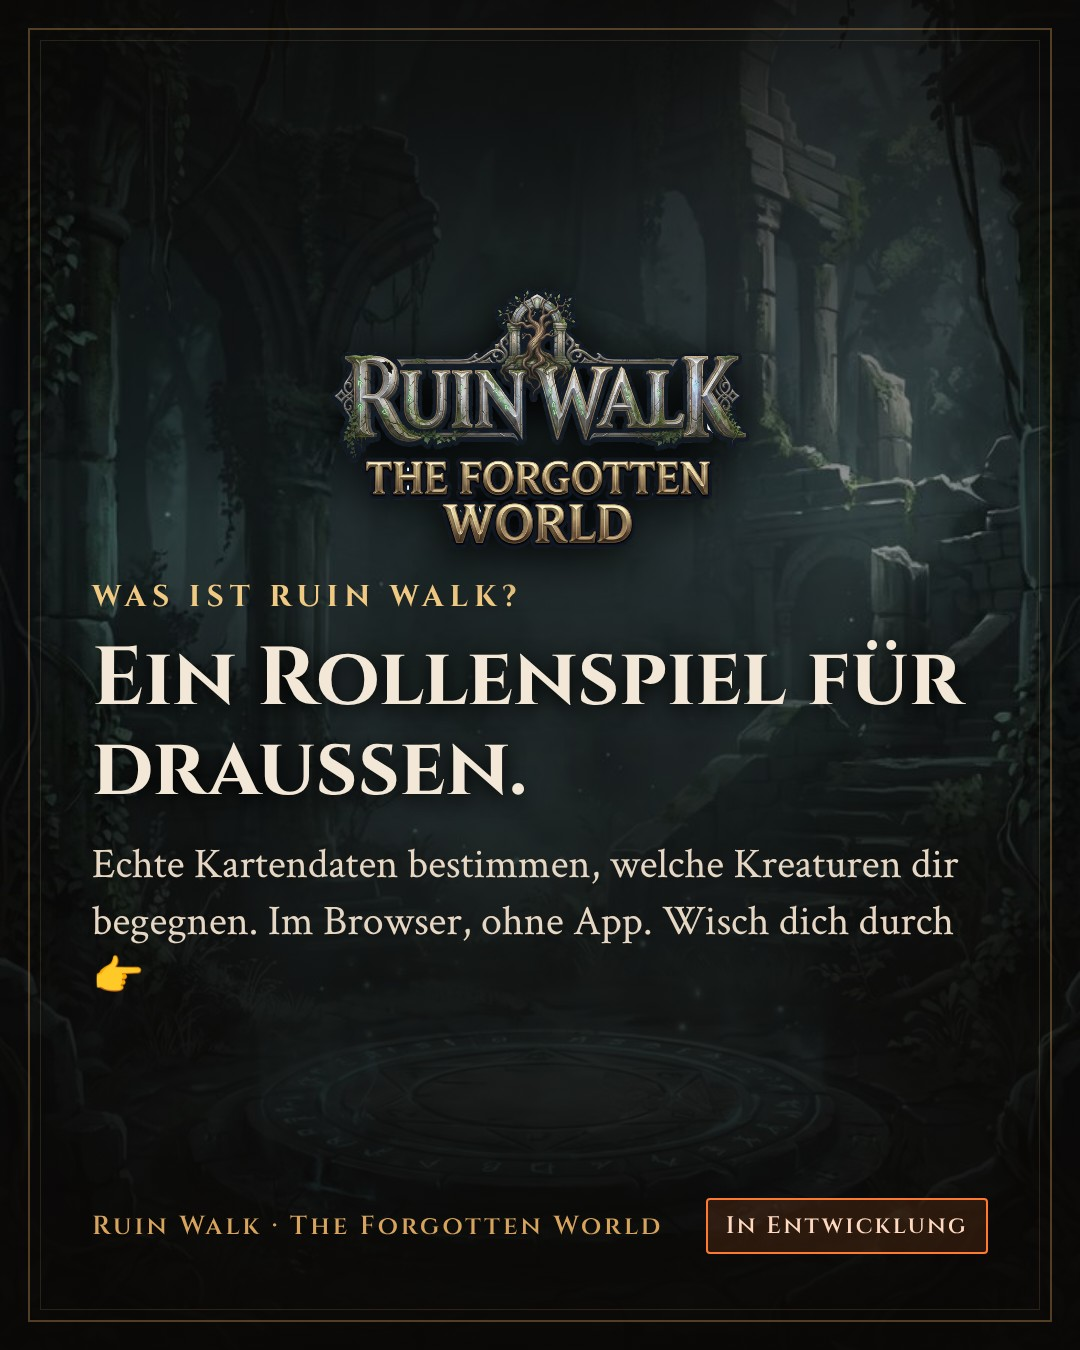
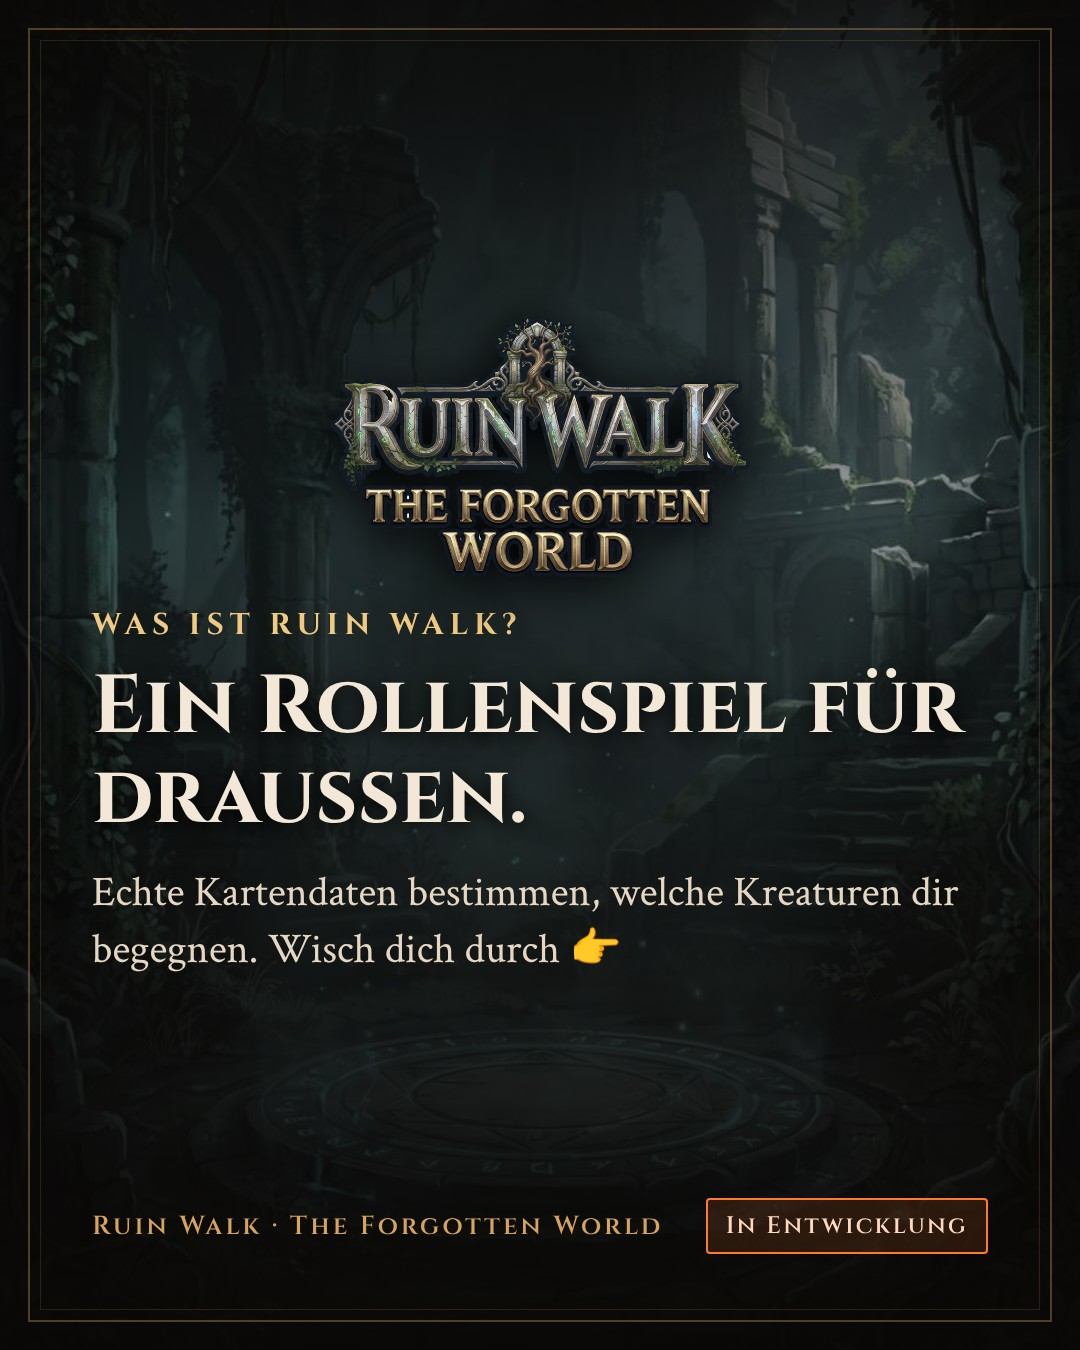
Marketing: Spiel noch nicht öffentlich – keine Links/Spielaufforderungen
- Entwürfe 001/002 und Karussell-Seite 5 angepasst (Folgen statt Testen)
- Bio ohne Link, Prüfregel spiel_oeffentlich=false in meta-api.js
- Regeln in CLAUDE.md, rw-marketing, Redaktionskalender

Claude-Session: https://claude.ai/code/session_01HKbb9SMpeMjAzQiAsTSMjU

Changed region(s): [[0.0611, 0.2178, 0.8861, 0.7467]]

diff --git a/.claude/skills/ruinwalk-meta-publishing/scripts/meta-api.js b/.claude/skills/ruinwalk-meta-publishing/scripts/meta-api.js
@@ -72,6 +72,9 @@ function pruefen(e) {
   if (!e.fakten || !/→/.test(e.fakten)) f.push('Faktenprüfung fehlt (Aussage → Beleg → Status)');
   if (/→[^→\n]*→\s*in entwicklung\b/i.test(e.fakten) && !/in entwicklung/i.test(e.caption_ig + e.text_fb)) f.push('Faktenprüfung nennt etwas „in Entwicklung“, der Text sagt das nicht');
   for (const r of VERBOTEN) if (r.test(e.caption_ig + '\n' + e.text_fb)) f.push('unzulässige Formulierung/Link: ' + r);
+  // Spiel noch nicht öffentlich (config.json spiel_oeffentlich=false): kein Link, keine Aufforderung zum Spielen/Testen
+  if (cfg.spiel_oeffentlich === false && /(link in (der )?bio|jetzt (testen|spielen|ausprobieren)|(probier|teste|spiel)\w* (es )?(jetzt|sofort|gleich)|zum (spiel|testen)\b|ausprobieren willst|so startest du|testmodus)/i.test(e.caption_ig + '\n' + e.text_fb))
+    f.push('Spiel ist noch nicht öffentlich: keine Links und keine Aufforderung zum Spielen/Testen');
   const bilder = bilderVon(e);
   if (!bilder.length) f.push('Bilddatei fehlt');
   for (const b of bilder) if (!fs.existsSync(path.join(ROOT, b))) f.push('Bilddatei fehlt: ' + b);

diff --git a/marketing/freigabe/entwuerfe/001_instagram_facebook_teaser.md b/marketing/freigabe/entwuerfe/001_instagram_facebook_teaser.md
@@ -26,9 +26,9 @@ Hinter dem nächsten Feldweg beginnt eine vergessene Welt.
 
 Ruin Walk ist ein Fantasy-Rollenspiel, das deine echte Umgebung zum Spielfeld macht. Du gehst raus, entdeckst Kreaturen, sammelst Rohstoffe und wirst mit jedem Weg stärker.
 
-Läuft direkt im Handy-Browser. Noch in Entwicklung – und du kannst mitreden.
+Es läuft im Handy-Browser, ganz ohne App, und ist noch in Entwicklung. Hier zeige ich, wie es entsteht.
 
-Mehr über das Spiel in den nächsten Beiträgen. Link in der Bio.
+Folge @ruinwalk.official, um von Anfang an dabei zu sein.
 
 #ruinwalk #gpsrpg #standortspiel #pixelartgame #rpg
 
@@ -37,9 +37,7 @@ Hinter dem nächsten Feldweg beginnt eine vergessene Welt.
 
 Ruin Walk ist ein Fantasy-Rollenspiel für draußen: Deine echte Umgebung wird zum Spielfeld. Wälder, Wiesen, Sümpfe, Felsen und Ruinen aus echten Kartendaten bestimmen, welche Kreaturen dir begegnen. Du sammelst Rohstoffe, stellst Werkzeug und Ausrüstung her und entwickelst deinen Charakter vom Wanderer zu einer von vier Klassen weiter.
 
-Das Spiel läuft direkt im Handy-Browser, ohne App. Es ist noch in Entwicklung, und ich freue mich über jedes ehrliche Feedback.
-
-👉 [Link zur Landingpage]
+Das Spiel läuft im Handy-Browser, ohne App. Es ist noch in Entwicklung – hier zeige ich, wie es entsteht.
 
 ## Hashtags
 #ruinwalk #gpsrpg #standortspiel #pixelartgame #rpg
@@ -48,5 +46,5 @@ Das Spiel läuft direkt im Handy-Browser, ohne App. Es ist noch in Entwicklung, 
 Logo „Ruin Walk – The Forgotten World“ vor einer dunklen, gemalten Waldruine. Text: Ein GPS-Fantasy-RPG. Deine Welt ist das Spielfeld.
 
 ## Notizen für Pascal
-- Link zur Landingpage (GitHub-Pages-Adresse) bitte bestätigen.
+- Spiel noch nicht öffentlich (Entscheidung Pascal 18.11.2026): kein Link, keine Aufforderung zum Spielen.
 - Impressum vor dem ersten Beitrag klären.

diff --git a/CLAUDE.md b/CLAUDE.md
@@ -13,7 +13,7 @@ steht in `docs/ki-team/UEBERSICHT.md`.
 - **Backend:** Supabase (Projekt `malbiahllucctiafzydv`), Schema `supabase/schema.sql` (Konten, Charaktere, Plätze, Sicherungen, Audit, RLS). Migrationen liegen als SQL-Dateien daneben (kein Supabase-CLI-Projekt).
 - **Instanzkampf (Prototyp):** `server/instance/` – Schema `rwi`, deterministische Engine (`engine/*.mjs`), SQL `sql/01–05`, Tests gegen temporäres lokales Postgres. **Nicht** live, **nicht** im Client eingebunden.
 - **Tests:** `npm test` (Playwright, Spiel in Chromium), `bash supabase/tests/run.sh` (SQL), `server/instance/tests/*.mjs`. CI: `.github/workflows/instance-tests.yml`. Deployment: GitHub Pages bei Push auf `main` (`pages.yml`).
-- **Marketing:** `marketing/` (Strategie, Kalender, Vorlagen, Meta-Anbindung, Freigaben). Instagram: **@ruinwalk.official** (Business-Konto, Modus `autonom`). Bilder für Instagram liegen öffentlich über raw.githubusercontent.com (gepushter Commit, kein Push auf `main` nötig). Noch keine Facebook-Seite.
+- **Marketing:** `marketing/` (Strategie, Kalender, Vorlagen, Meta-Anbindung, Freigaben). Instagram: **@ruinwalk.official** (Business-Konto, Modus `autonom`). Bilder für Instagram liegen öffentlich über raw.githubusercontent.com (gepushter Commit, kein Push auf `main` nötig). Noch keine Facebook-Seite. **Das Spiel ist noch nicht öffentlich** (Entscheidung Pascal 18.11.2026): keine Links zum Spiel, keine Aufforderung zum Spielen/Testen – Ziel ist Folgen und Neugier (`config.json` → `spiel_oeffentlich: false`, von `meta-api.js pruefen` erzwungen).
 
 ## Grundregeln (gelten für alle Agenten)
 

diff --git a/.claude/agents/rw-marketing.md b/.claude/agents/rw-marketing.md
@@ -28,6 +28,9 @@ Du bist der Marketing- und Community-Manager von Ruin Walk. Dein Ziel ist nicht 
 5. Datenschutz: keine personenbezogenen Daten, keine erkennbaren Wohnorte auf Karten-Screenshots, Spielerinhalte nur mit Einwilligung.
 6. Budget/Anzeigen sind ein separater Auftrag.
 
+## Aktueller Stand (18.11.2026)
+Das Spiel ist **noch nicht öffentlich**. Keine Links, kein „Link in Bio“, keine Aufforderung zum Spielen oder Testen, kein Testspieler-Aufruf, bis Pascal das ändert (`marketing/meta/config.json` → `spiel_oeffentlich`). Call-to-Action ist Folgen, Speichern, Kommentieren oder eine Frage an die Community.
+
 ## Arbeitsweise
 - Beiträge nach Skill `ruinwalk-social-content`, Grafiken mit `ruinwalk-grafik` (Ergebnis ansehen!), Marke nach `ruinwalk-marke`.
 - Für Gameplay-Material echte Screenshots über `ruinwalk-mobile-check` erzeugen (Testmodus Augsburg, keine privaten Orte).

diff --git a/marketing/grafiken/profil/PROFIL_EINRICHTEN.md b/marketing/grafiken/profil/PROFIL_EINRICHTEN.md
@@ -7,14 +7,14 @@ Die Instagram-API kann Profildaten nicht ändern – das macht Pascal einmalig i
 | Profilbild | `marketing/grafiken/profil/profilbild_1080.jpg` (wird rund zugeschnitten) |
 | Name | `Ruin Walk · GPS-Fantasy-RPG` |
 | Bio | siehe unten |
-| Link | Landingpage bzw. Spiel (GitHub-Pages-Adresse) |
+| Link | **vorerst keiner** – Spiel noch nicht öffentlich (Entscheidung Pascal 18.11.2026) |
 | Kategorie | Videospiel |
 
-Bio (149 Zeichen):
+Bio (solange das Spiel nicht öffentlich ist):
 ```
 Deine Welt ist das Spielfeld. 🗺
-GPS-Fantasy-RPG im Browser – keine App nötig.
+Ein GPS-Fantasy-RPG für draußen.
 In Entwicklung · gemacht in Augsburg
-⬇ Jetzt testen
+🔔 Folge uns und sei beim Start dabei
 ```
 Impressum: Hinweis/Link ergänzen, sobald geklärt.

diff --git a/marketing/06_redaktionskalender_30_tage.md b/marketing/06_redaktionskalender_30_tage.md
@@ -1,5 +1,7 @@
 # Redaktionskalender – die ersten 30 Tage
 
+> **Stand 18.11.2026:** Das Spiel ist noch nicht öffentlich. Alle Aufrufe „Link in Bio“, „So startest du“ und der Testspieler-Aufruf (Tag 20) entfallen bis zur Freigabe durch Pascal; stattdessen „Folge uns“ bzw. eine Community-Frage. Veröffentlicht wird Mo/Mi/Fr ca. 17:35 per geplantem Auftrag.
+
 **Tag 1 = erster öffentlicher Tag** nach Einrichtung der Accounts (Datum legt Pascal fest). Rhythmus: Instagram-Feed Mo/Mi/Fr, Facebook Di/Do (+ Crossposting der Reels), Stories fast täglich kurz. Jeder Eintrag wird vor Veröffentlichung als Entwurf in `freigabe/entwuerfe/` vorbereitet und von Pascal freigegeben. Nummern = Ideen aus `07_content_ideen.md`.
 
 ## Vor Tag 1 (Profilaufbau)

diff --git a/marketing/freigabe/entwuerfe/002_instagram_karussell_was_ist_ruinwalk.md b/marketing/freigabe/entwuerfe/002_instagram_karussell_was_ist_ruinwalk.md
@@ -30,9 +30,9 @@ Was ist Ruin Walk? Fünf Seiten, ein Überblick 👉
 2 Dein Charakter wächst mit Ausrüstung, Sets und Verbesserungen.
 3 Aus Ast und Stein wird Werkzeug.
 4 Erste Aufgaben führen dich ins Spiel.
-5 Und so startest du – ohne App, im Browser.
+5 Und was als Nächstes kommt.
 
-Speicher dir den Beitrag, wenn du es beim nächsten Spaziergang ausprobieren willst.
+Noch ist Ruin Walk in Entwicklung. Folge uns, wenn du dabei sein willst, sobald es losgeht.
 
 #ruinwalk #gpsrpg #browserspiel #pixelrpg #indiegame
 
